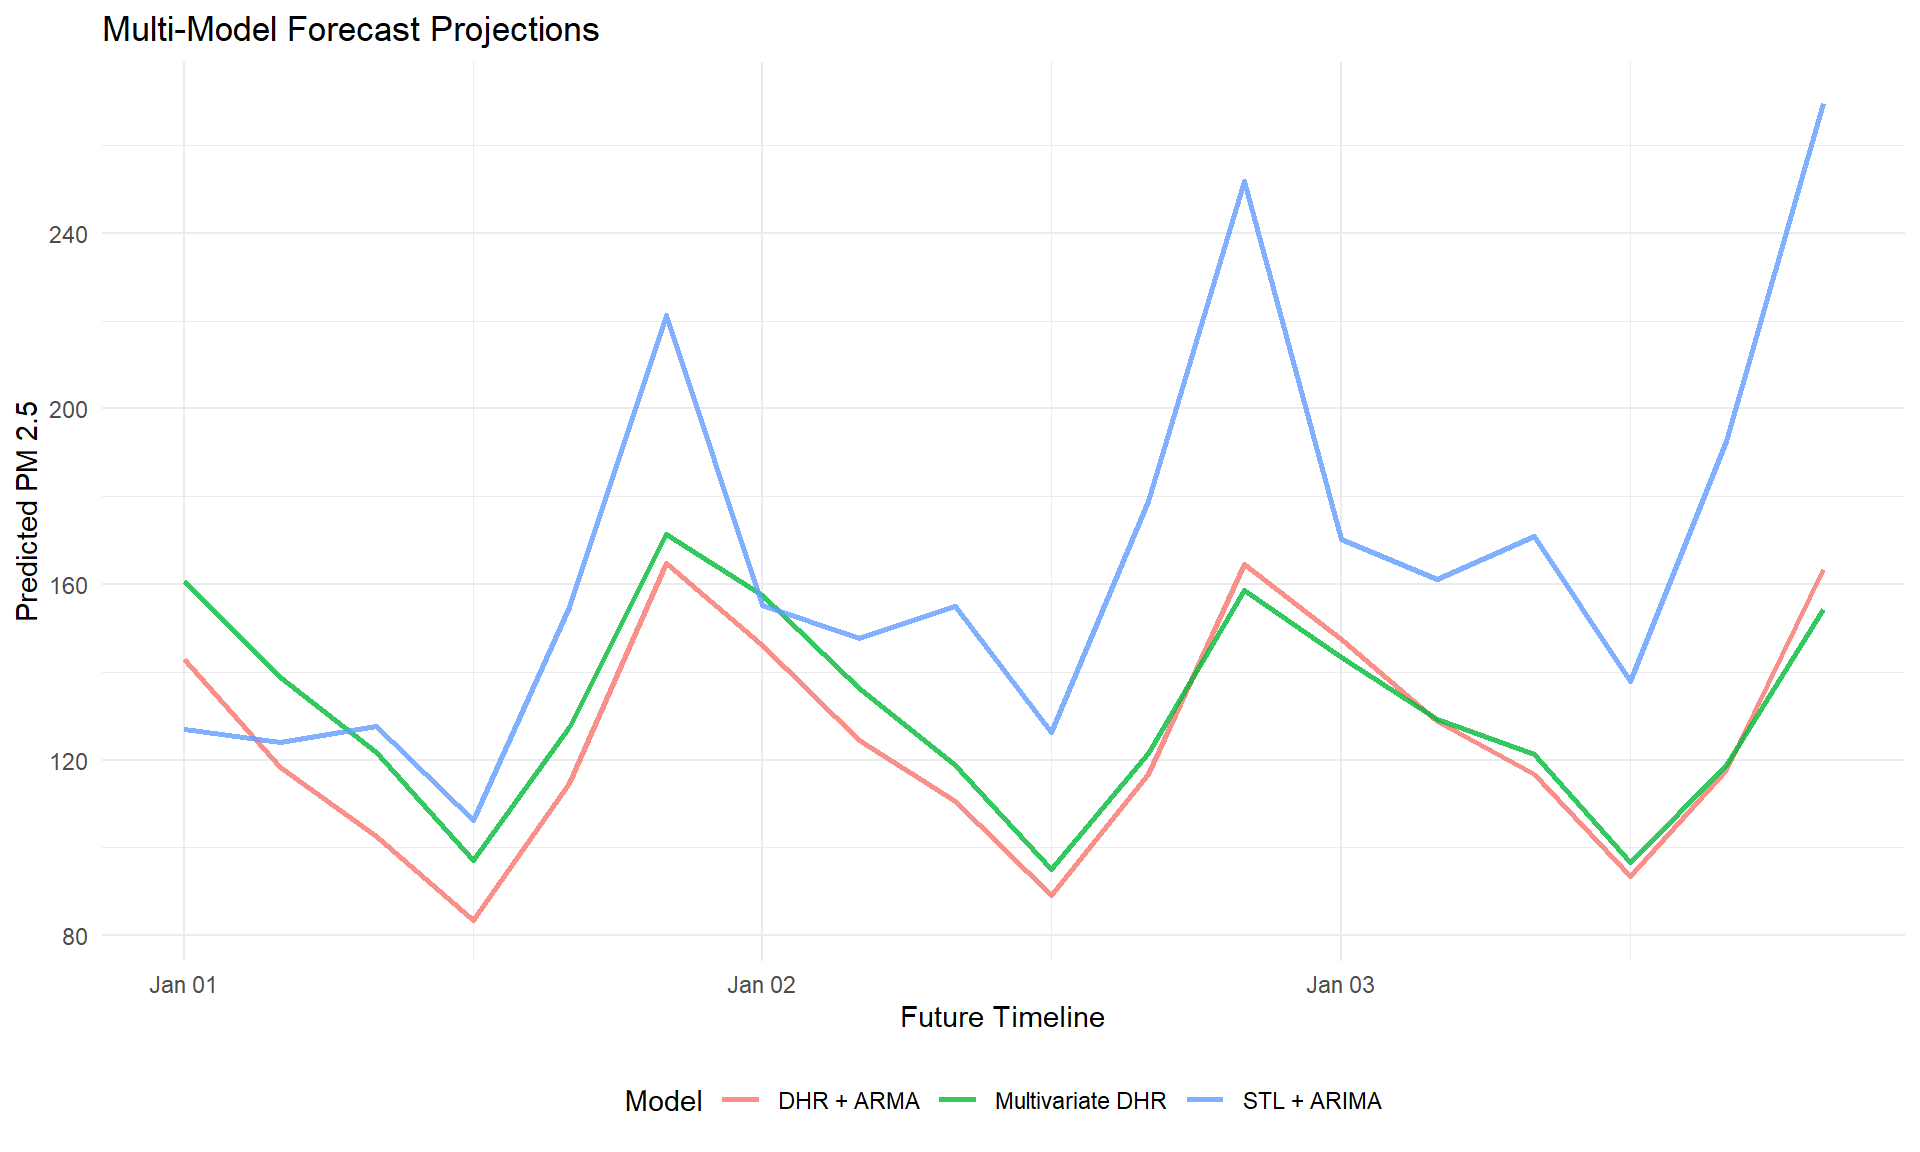
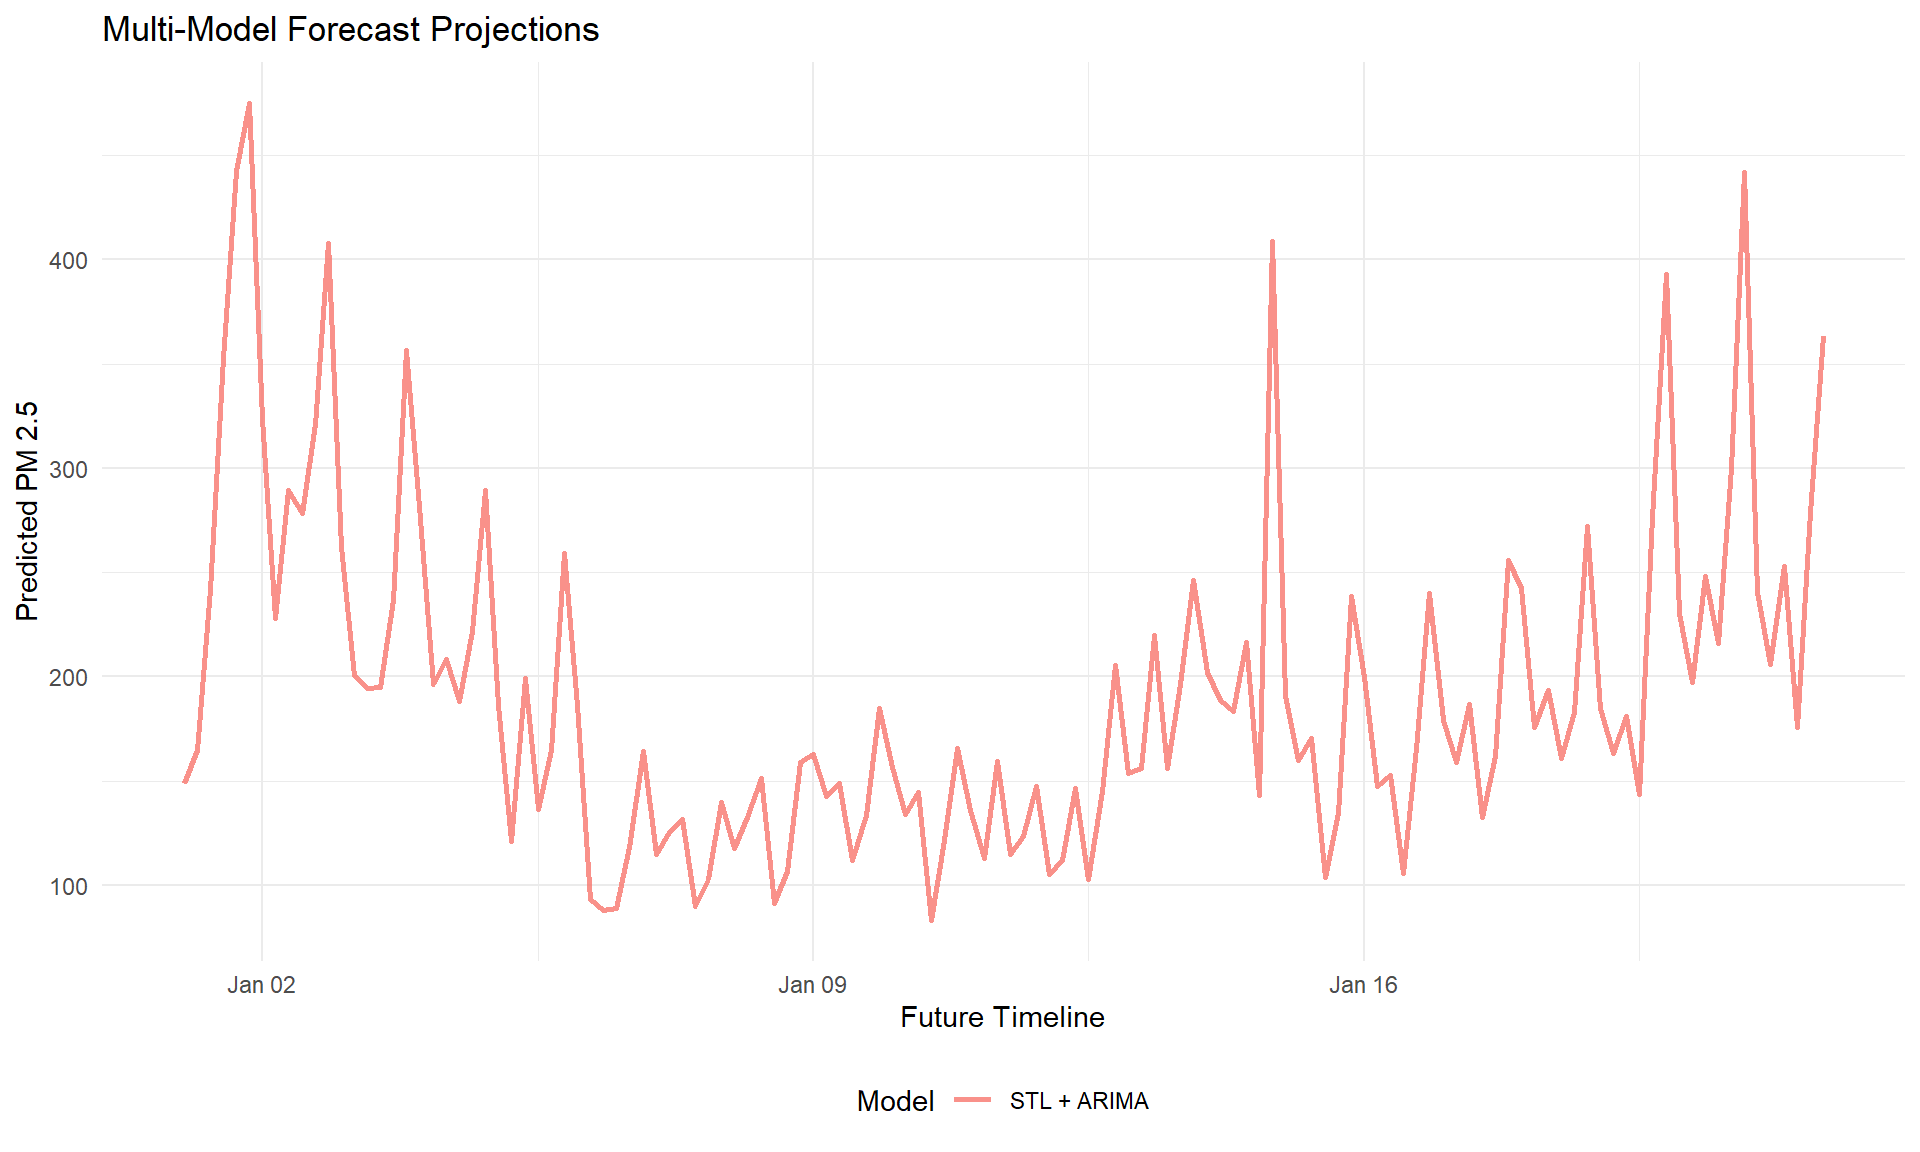
fix: update author name and date in research methodology documents

diff --git a/docs/reports/research_methodology.html b/docs/reports/research_methodology.html
@@ -6,8 +6,8 @@
 
 <meta name="viewport" content="width=device-width, initial-scale=1.0, user-scalable=yes">
 
-<meta name="author" content="Your Name">
-<meta name="dcterms.date" content="2026-06-07">
+<meta name="author" content="Rishav Dhariwal">
+<meta name="dcterms.date" content="2023-10-19">
 
 <title>Forecasting PM 2.5 in Indian Cities: A Multi-Seasonal Approach</title>
 <style>
@@ -153,14 +153,14 @@ window.Quarto = {
     <div>
     <div class="quarto-title-meta-heading">Author</div>
     <div class="quarto-title-meta-contents">
-             <p>Your Name </p>
+             <p>Rishav Dhariwal </p>
           </div>
   </div>
     
     <div>
     <div class="quarto-title-meta-heading">Published</div>
     <div class="quarto-title-meta-contents">
-      <p class="date">June 7, 2026</p>
+      <p class="date">October 19, 2023</p>
     </div>
   </div>
   
@@ -845,8 +845,8 @@ window.Quarto = {
 <div class="code-copy-outer-scaffold"><div class="sourceCode" id="cb9" data-shortcodes="false"><pre class="sourceCode markdown code-with-copy"><code class="sourceCode markdown"><span id="cb9-1"><a href="#cb9-1" aria-hidden="true" tabindex="-1"></a><span class="co">---</span></span>
 <span id="cb9-2"><a href="#cb9-2" aria-hidden="true" tabindex="-1"></a><span class="an">title:</span><span class="co"> "Forecasting PM 2.5 in Indian Cities: A Multi-Seasonal Approach"</span></span>
 <span id="cb9-3"><a href="#cb9-3" aria-hidden="true" tabindex="-1"></a><span class="an">subtitle:</span><span class="co"> "Research and Methodology for the EXL EQ' 2023 Challenge"</span></span>
-<span id="cb9-4"><a href="#cb9-4" aria-hidden="true" tabindex="-1"></a><span class="an">author:</span><span class="co"> "Your Name"</span></span>
-<span id="cb9-5"><a href="#cb9-5" aria-hidden="true" tabindex="-1"></a><span class="an">date:</span><span class="co"> today</span></span>
+<span id="cb9-4"><a href="#cb9-4" aria-hidden="true" tabindex="-1"></a><span class="an">author:</span><span class="co"> "Rishav Dhariwal"</span></span>
+<span id="cb9-5"><a href="#cb9-5" aria-hidden="true" tabindex="-1"></a><span class="an">date:</span><span class="co"> 2023-10-19</span></span>
 <span id="cb9-6"><a href="#cb9-6" aria-hidden="true" tabindex="-1"></a><span class="an">format:</span><span class="co"> </span></span>
 <span id="cb9-7"><a href="#cb9-7" aria-hidden="true" tabindex="-1"></a><span class="co">  html:</span></span>
 <span id="cb9-8"><a href="#cb9-8" aria-hidden="true" tabindex="-1"></a><span class="co">    theme: flatly</span></span>